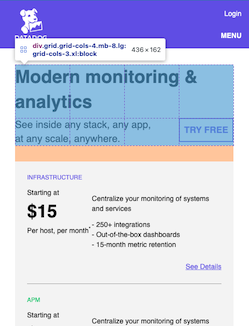
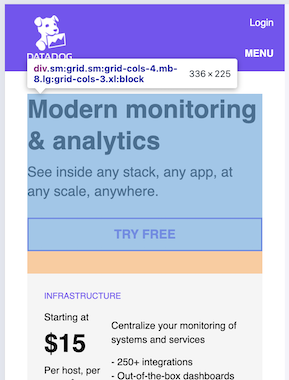
Design - Mobile Navigation section doc updates

diff --git a/documentation/Design.md b/documentation/Design.md
@@ -24,7 +24,7 @@ The following screenshots illustrate the underlying grid for each breakpoint.
 ### Small screens (4-column grid)
 ![screenshot of headline at small screen size](/documentation/screenshots/headline-SM.png)
 
-### Extra-small screens (4-column grid)
+### Extra-small screens (back to block display)
 ![screenshot of headline at extra small screen size](/documentation/screenshots/headline-XS.png)
 
 One improvement I'd make is refining the typography more. Adjustments in leading and perhaps more customized font sizes would be good refinements.
@@ -32,6 +32,10 @@ One improvement I'd make is refining the typography more. Adjustments in leading
 ## Mobile Navigation
 
 The mobile navigation implementation is at a very basic state. It fits on small screen sizes and opens and closes with user interaction. I picked the approach to use clickable text ("Menu") in place of an icon to be especially clear in the component's use. However the hamburger icon is very familiar to users of mobile sites so it's certainly reasonable to implement, too.
+
+|  |  |
+| ----------- | ----------- |
+| ![screenshot of mobile navigation closed](/documentation/screenshots/mobile-nav-closed.png) | ![screenshot of mobile navigation opened](/documentation/screenshots/mobile-nav-opened.png) |
 
 There's a lot more to implement, such as the menu filling the screen for easy use (as well as visual focus) and animating the opening and closing of the menu to visually slide in and out of view (from either the top or side).
 
